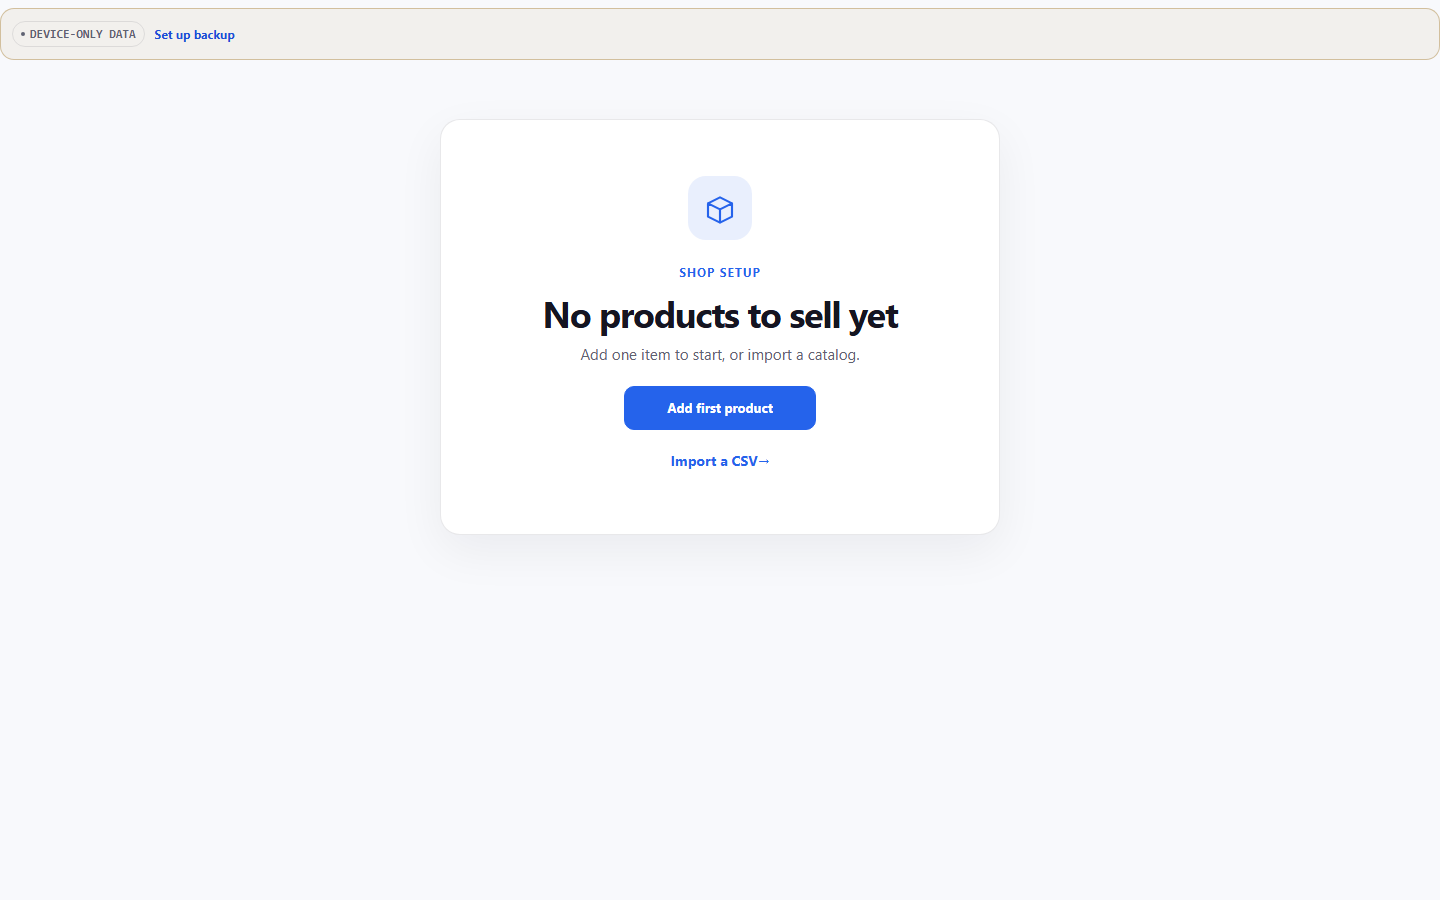
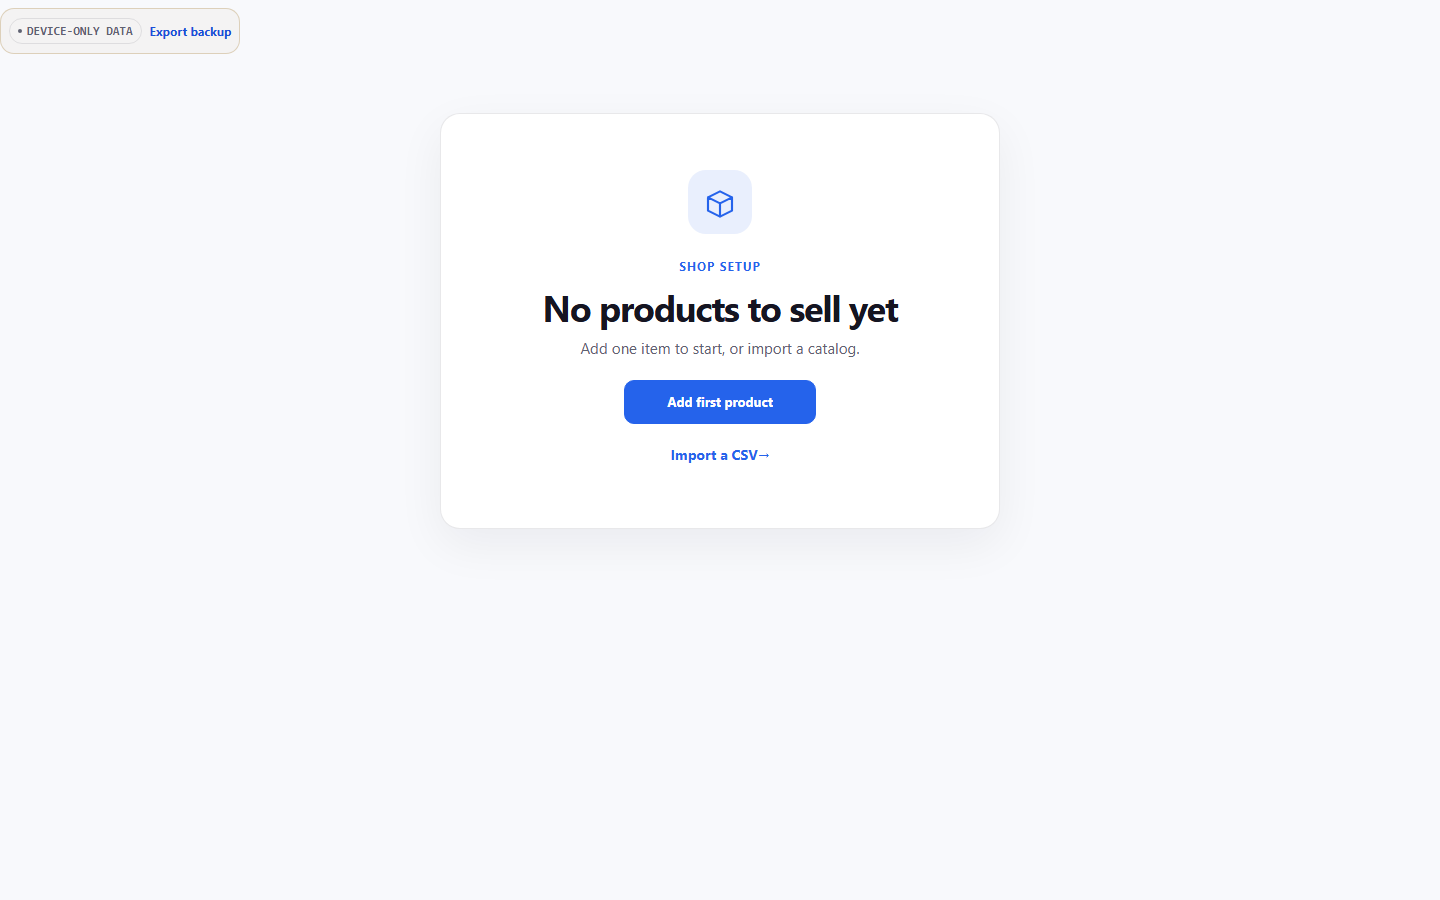
Make the public launch pages product-first

Changed region(s): [[0.375, 0.28, 0.625, 0.5289], [0.0, 0.0311, 0.1562, 0.0622], [0.4688, 0.2178, 0.5312, 0.2489]]

diff --git a/showroom/src/core/CoreApp.tsx b/showroom/src/core/CoreApp.tsx
@@ -3605,7 +3605,7 @@ function CommercePage({ allowEcommerceShopHandoff, allowShopInboundRequests, con
               ? 'Saved here. Back up before this device runs out of Shop record space.'
               : 'This Shop record stays on this device. Back up before changing devices.',
           '/settings/#workspace-recovery',
-          'Set up backup',
+          'Export backup',
         )
   const operatingBoundary = <>
     {commerceStorageError || commerceSyncBlocked || commerceSync.status === 'checking' || !commerceCanWrite ? commerceWriteBanner : null}
